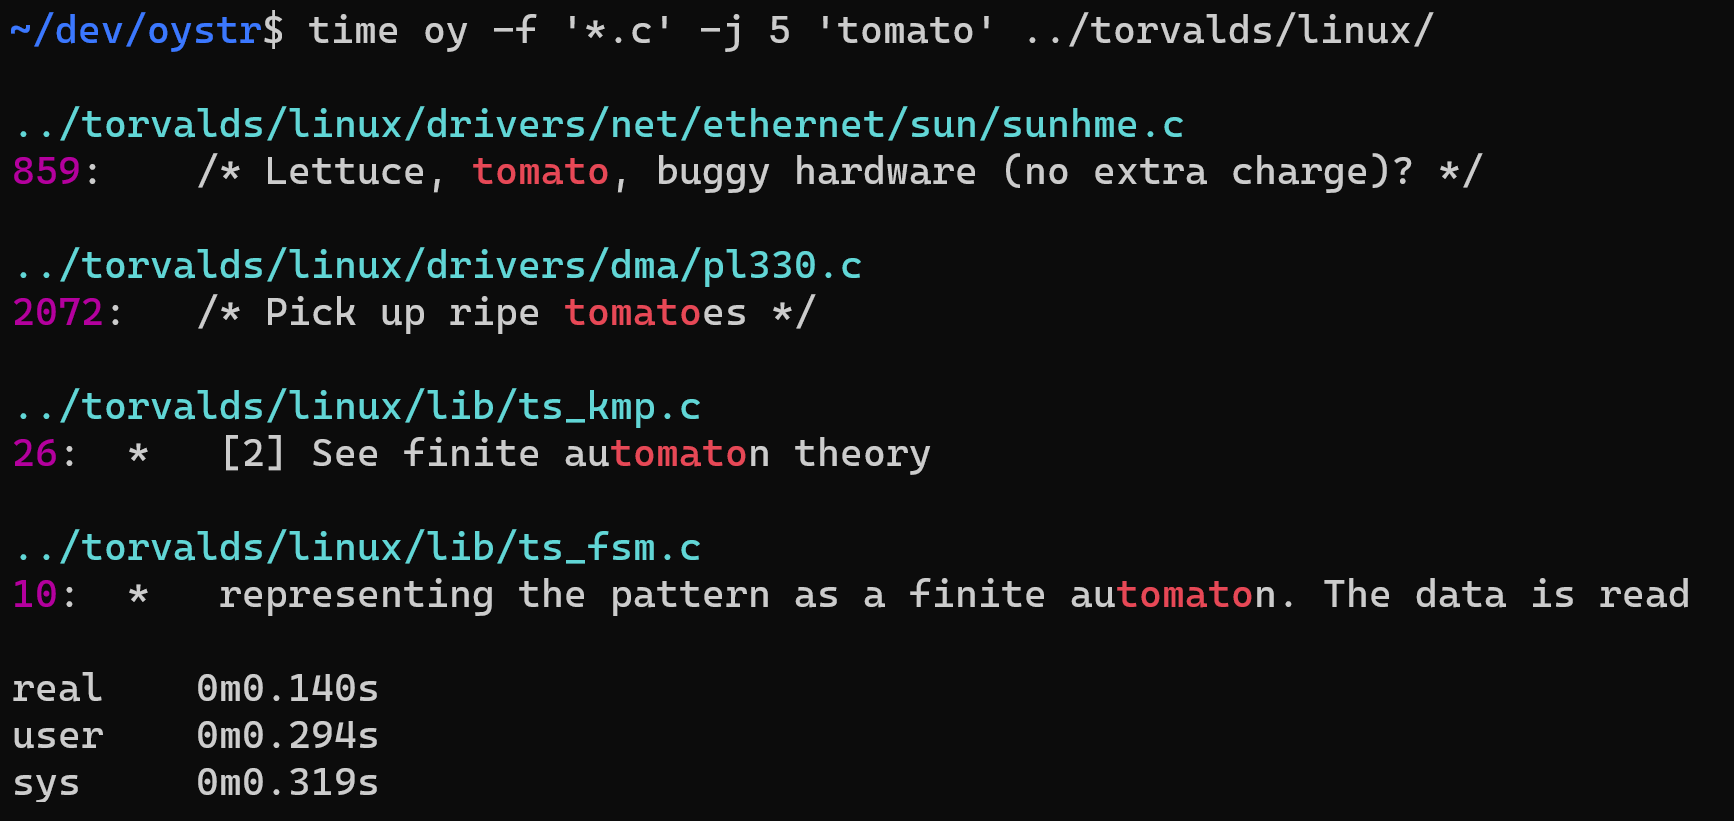
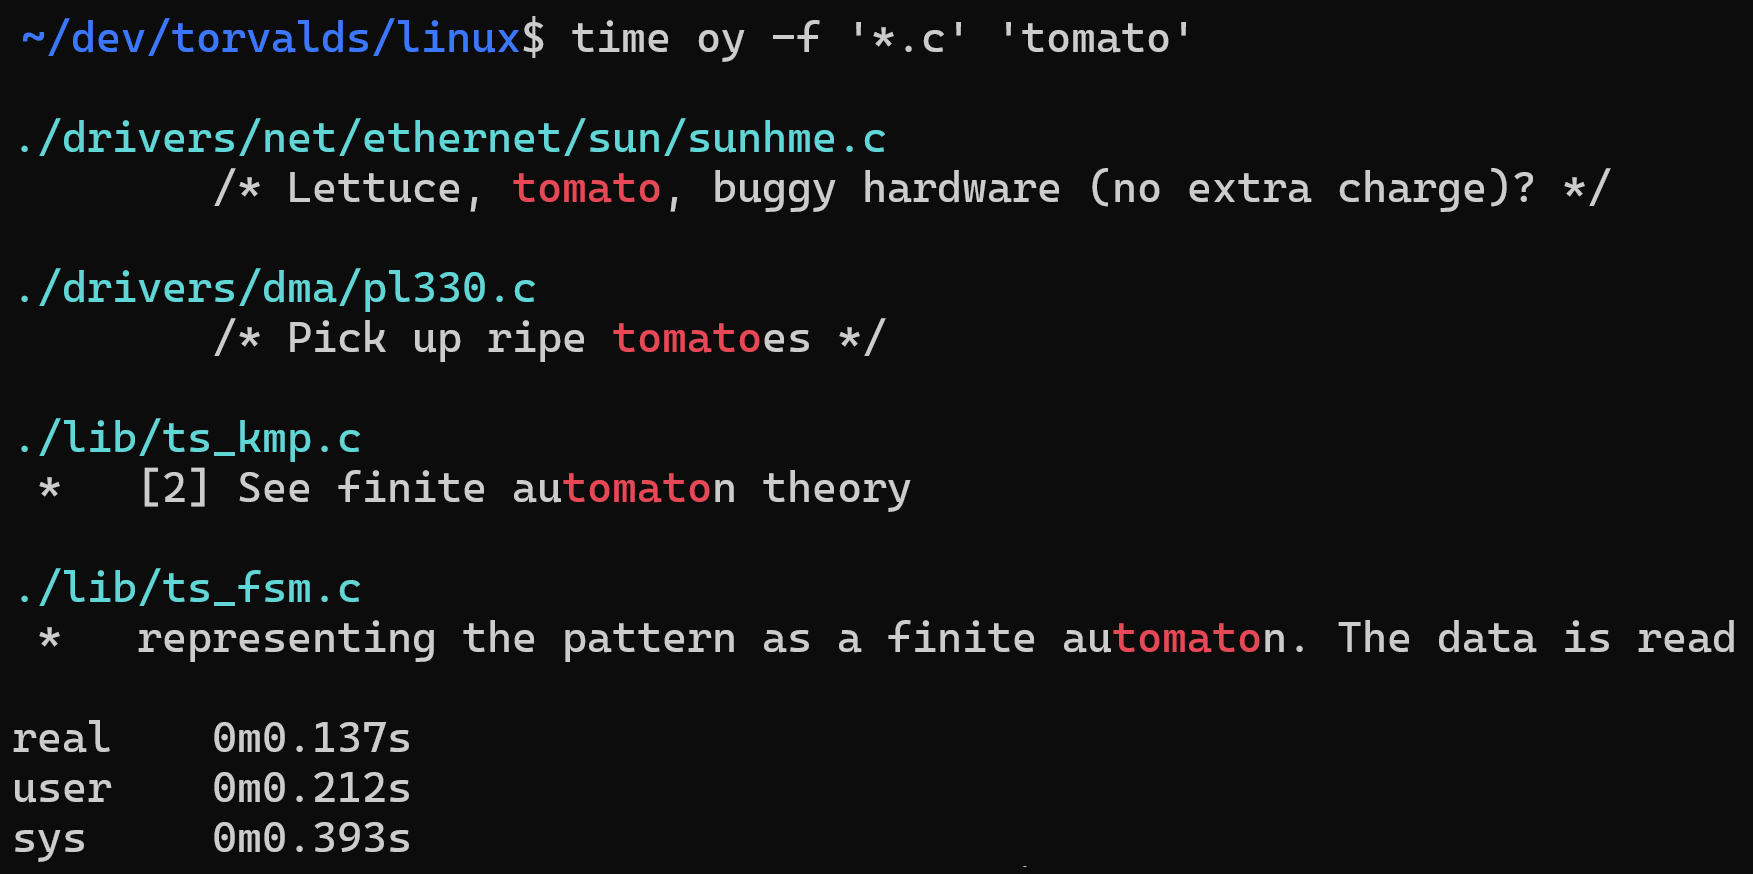
Removed -c/-m/-l/-L options. Need to reconsider design

diff --git a/source/main.cpp b/source/main.cpp
@@ -1,5 +1,4 @@
 #include <argparse.hpp>
-#include <help.hpp>
 #include <searcher.hpp>
 #include <unistd.h>
 namespace fs = std::filesystem;
@@ -27,39 +26,13 @@ int main(int argc, char* argv[])
   program.add_argument("-j")
       .help("Number of threads")
       .scan<'d', int>()
-      .default_value(3);
-
-  // Generic Output Control
-  program.add_argument("-c", "--count")
-      .help("Print a count of matching lines for each input file.")
-      .default_value(false)
-      .implicit_value(true);
-
-  program.add_argument("-L", "--files-without-match")
-      .help("Print only filenames of files that do not contain matches")
-      .default_value(false)
-      .implicit_value(true);
-
-  program.add_argument("-l", "--files-with-matches")
-      .help("Print only filenames of files that contain matches.")
-      .default_value(false)
-      .implicit_value(true);
-
-  program.add_argument("-m", "--max-count")
-      .help("Stop reading a file after NUM matching lines.")
-      .default_value(0)
-      .required()
-      .scan<'i', std::size_t>();
+      .default_value(5);
 
   try {
     program.parse_args(argc, argv);
   } catch (const std::runtime_error& err) {
-    if (program.get<bool>("-h")) {
-      search::print_help();
-    } else {
-      std::cerr << err.what() << std::endl;
-      search::print_help();
-    }
+    std::cerr << err.what() << std::endl;
+    std::cerr << program;
     std::exit(1);
   }
 
@@ -99,24 +72,11 @@ int main(int argc, char* argv[])
   auto query = program.get<std::string>("query");
   auto filter = program.get<std::string>("-f");
   auto num_threads = program.get<int>("-j");
-  auto print_count = program.get<bool>("-c");
-  auto enforce_max_count = program.is_used("-m");
-  std::size_t max_count = 0;
-  if (enforce_max_count) {
-    max_count = program.get<std::size_t>("-m");
-  }
-  auto print_only_file_matches = program.get<bool>("-l");
-  auto print_only_file_without_matches = program.get<bool>("-L");
 
   // Configure a searcher
   search::searcher searcher;
   searcher.m_query = query;
   searcher.m_filter = filter;
-  searcher.m_print_count = print_count;
-  searcher.m_enforce_max_count = enforce_max_count;
-  searcher.m_max_count = max_count;
-  searcher.m_print_only_file_matches = print_only_file_matches;
-  searcher.m_print_only_file_without_matches = print_only_file_without_matches;
   searcher.m_is_stdout = is_stdout;
   searcher.m_is_path_from_terminal = is_path_from_terminal;
 

diff --git a/source/searcher.cpp b/source/searcher.cpp
@@ -99,7 +99,6 @@ std::size_t searcher::file_search(std::string_view filename,
   bool first_search = true;
   bool printed_file_name = false;
   std::size_t current_line_number = 1;
-  auto last_newline_pos = haystack_begin;
   auto no_file_name = filename.empty();
 
   while (it != haystack_end) {
@@ -122,7 +121,7 @@ std::size_t searcher::file_search(std::string_view filename,
     it = needle_search(m_query, it, haystack_end);
 #endif
 
-    if (it != haystack_end && !m_print_only_file_without_matches) {
+    if (it != haystack_end) {
       // needle found in haystack
 
       if (!no_file_name) {
@@ -166,31 +165,7 @@ std::size_t searcher::file_search(std::string_view filename,
 #else
         auto newline_after = std::find(it, haystack_end, '\n');
 #endif
-
-        if (last_newline_pos == haystack_begin) {
-          last_newline_pos = haystack_begin + newline_before;
-          if (newline_before != std::string_view::npos) {
-            current_line_number +=
-                std::count_if(haystack_begin,
-                              last_newline_pos,
-                              [](char c) { return c == '\n'; });
-          }
-        }
-
-        current_line_number += std::count_if(last_newline_pos + 1,
-                                             newline_after + 1,
-                                             [](char c) { return c == '\n'; });
-        if (m_is_stdout) {
-          // Print line number in bold magenta
-          fmt::format_to(std::back_inserter(out),
-                         "\033[1;35m{}\033[0m: ",
-                         current_line_number);
-        } else {
-          fmt::format_to(std::back_inserter(out), "{}: ", current_line_number);
-        }
-
         // Get line [newline_before, newline_after]
-
         auto line_size =
             std::size_t(newline_after - (haystack_begin + newline_before) - 1);
         line = haystack.substr(newline_before + 1, line_size);

diff --git a/source/searcher.hpp b/source/searcher.hpp
@@ -27,11 +27,6 @@ struct searcher
   static inline std::unique_ptr<thread_pool> m_ts;
   static inline std::string_view m_query;
   static inline std::string_view m_filter;
-  static inline bool m_print_count;
-  static inline bool m_enforce_max_count;
-  static inline std::size_t m_max_count;
-  static inline bool m_print_only_file_matches;
-  static inline bool m_print_only_file_without_matches;
   static inline bool m_is_stdout;
   static inline bool m_is_path_from_terminal;
 
